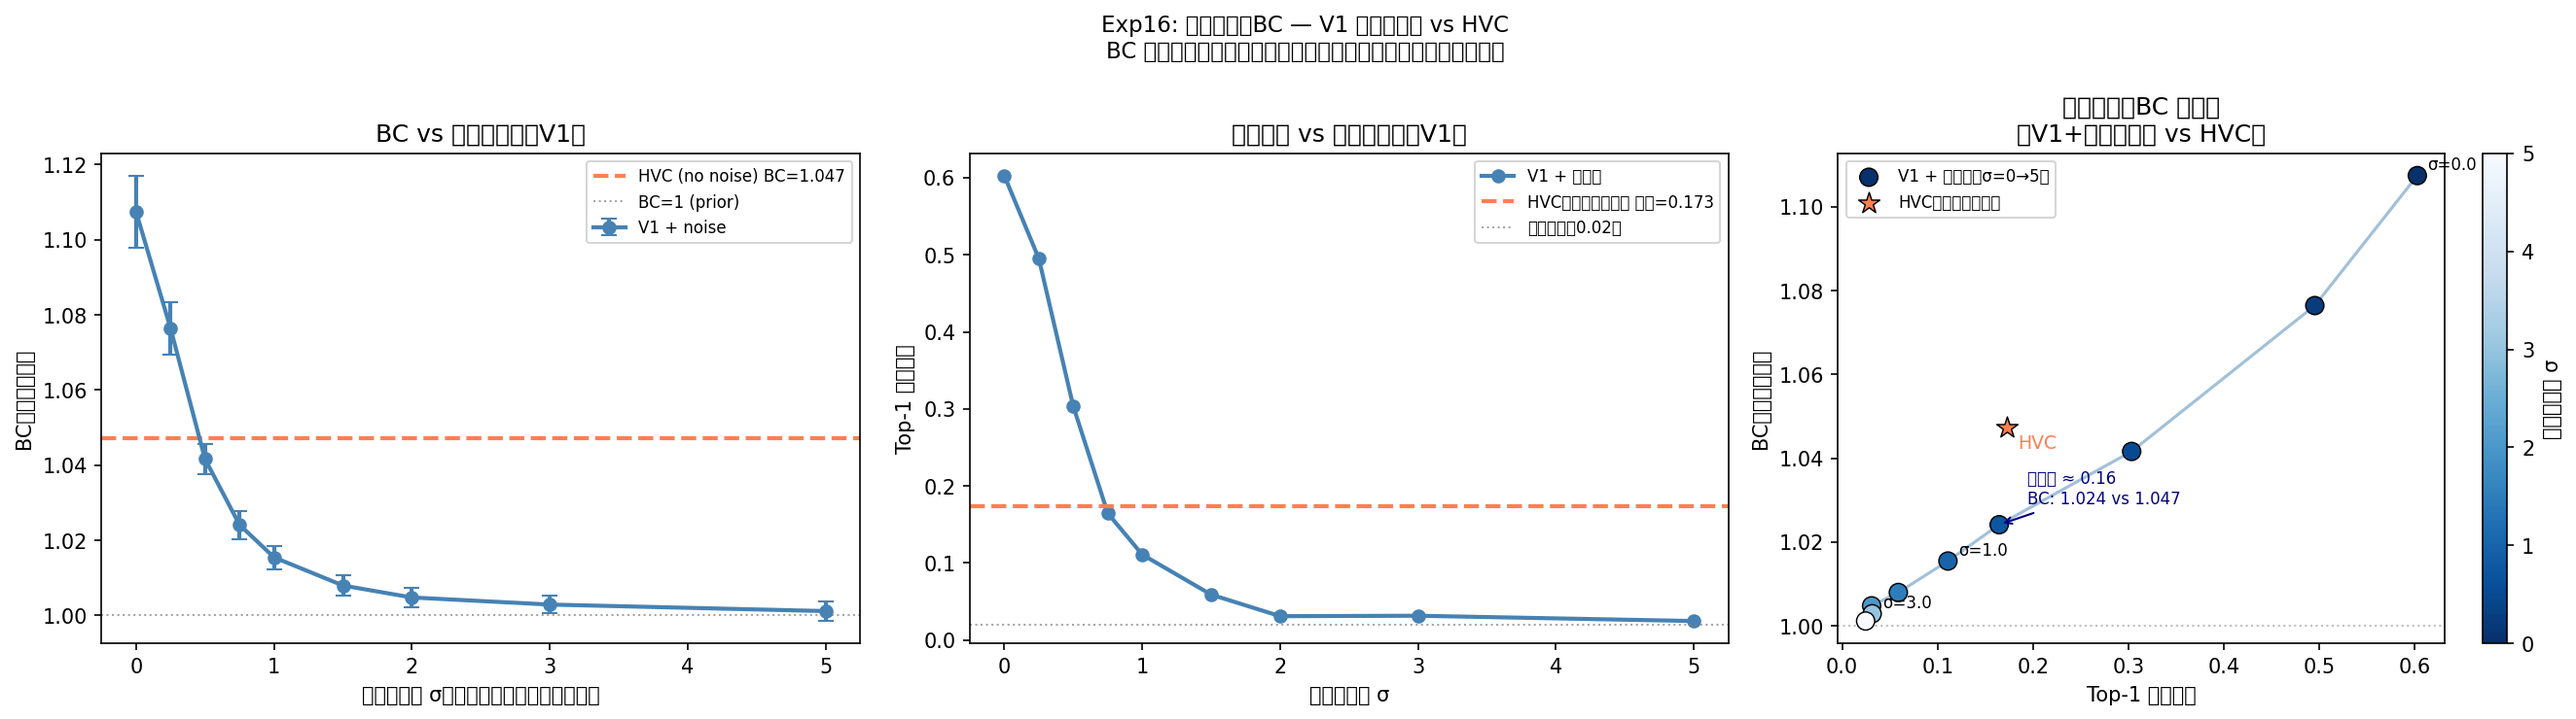
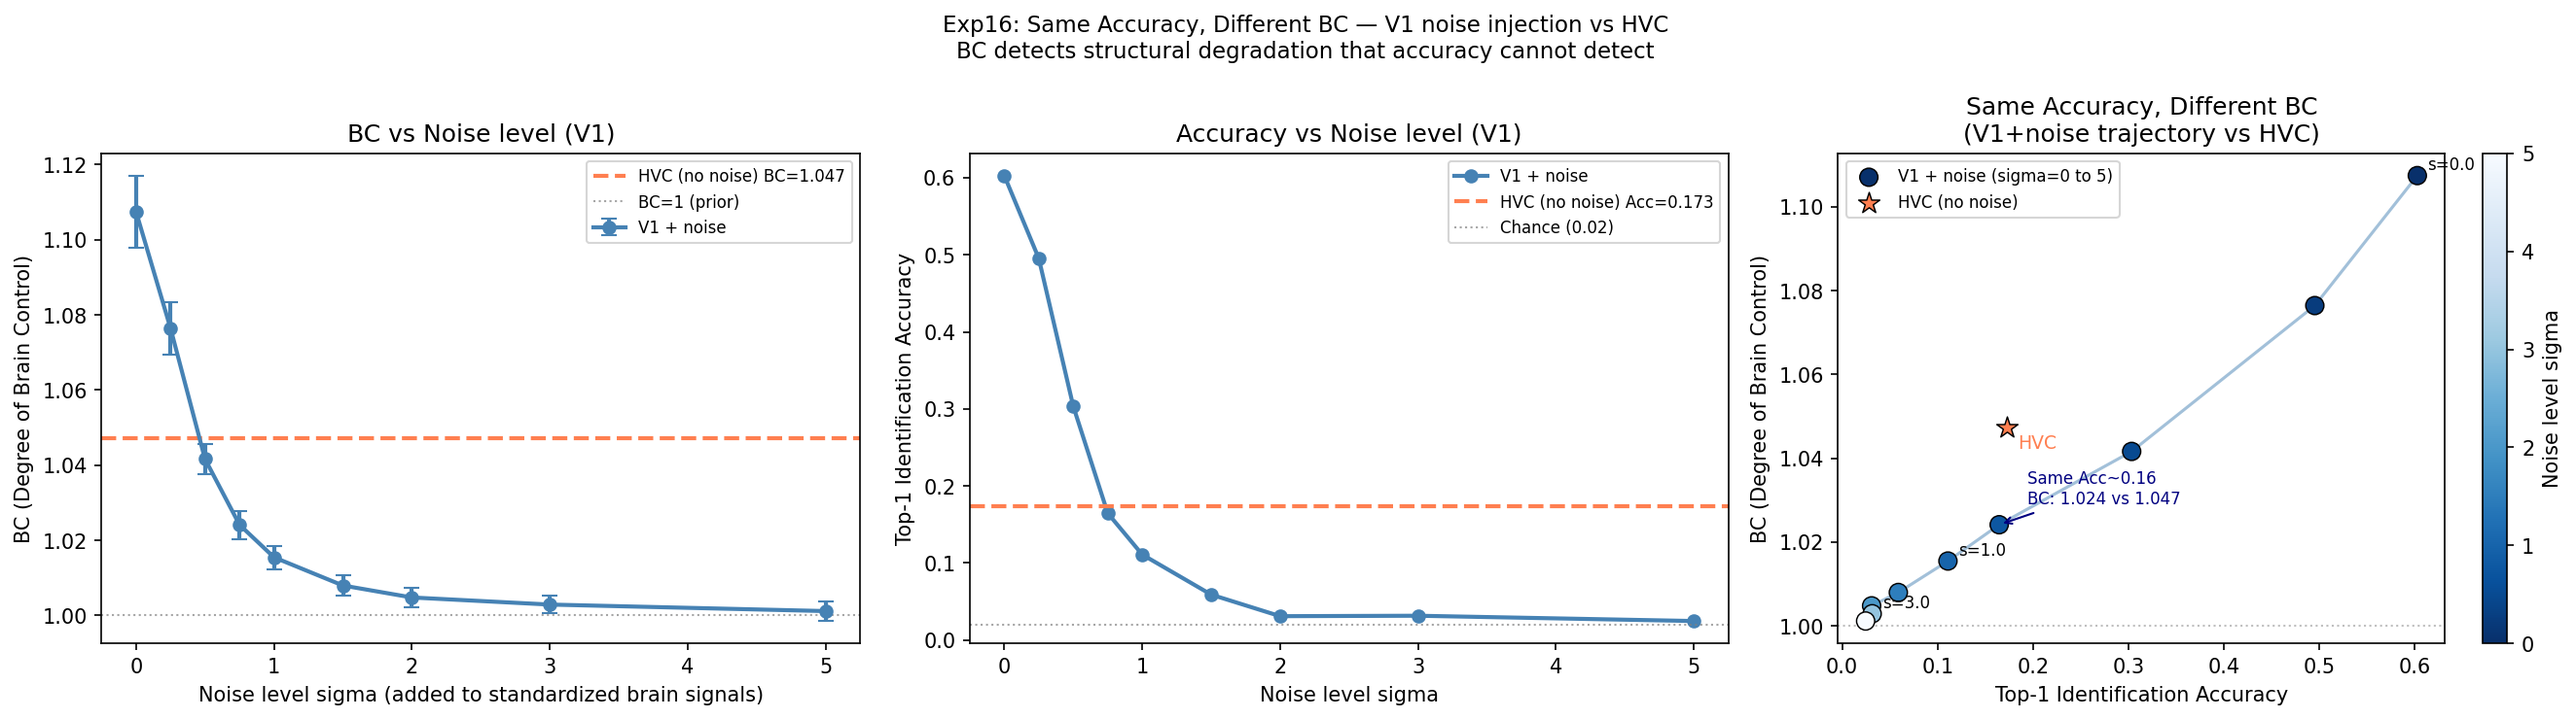
画像の文字化け修正

diff --git a/experiments/exp16b_noise_sensitivity_curve.py b/experiments/exp16b_noise_sensitivity_curve.py
@@ -61,7 +61,7 @@ def main():
     # (1) 正規化カーブ（メイン図）
     ax = axes[0]
     ax.plot(noise_levels, bc_norm, color="steelblue", marker="o",
-            linewidth=2.5, markersize=7, label="BC（脳制御度）")
+            linewidth=2.5, markersize=7, label="BC (Degree of Brain Control)")
     ax.fill_between(
         noise_levels,
         bc_norm - bc_stds / (bc_max - bc_min),
@@ -69,18 +69,16 @@ def main():
         alpha=0.2, color="steelblue"
     )
     ax.plot(noise_levels, acc_norm, color="tomato", marker="s",
-            linewidth=2.5, markersize=7, label="識別精度", linestyle="--")
+            linewidth=2.5, markersize=7, label="Identification Accuracy", linestyle="--")
 
-    # HVC の水平線（同精度ペアの可視化）
     ax.axhline(bc_hvc_norm, color="steelblue", linestyle=":", linewidth=1.5, alpha=0.6,
-               label=f"HVC BC（ノイズなし）")
+               label="HVC BC (no noise)")
     ax.axhline(acc_hvc_norm, color="tomato", linestyle=":", linewidth=1.5, alpha=0.6,
-               label=f"HVC 識別精度（ノイズなし）")
+               label="HVC Accuracy (no noise)")
 
-    # 「同精度・異BC」の点を強調（σ=0.75）
     idx_075 = list(noise_levels).index(0.75)
     ax.annotate(
-        f"同精度 (σ=0.75)\nBC差 d={cohens_d:.2f}, p={p_val:.3f}",
+        f"Same Acc (s=0.75)\nBC diff d={cohens_d:.2f}, p={p_val:.3f}",
         xy=(noise_levels[idx_075], bc_norm[idx_075]),
         xytext=(1.5, 0.35),
         fontsize=9, color="navy",
@@ -88,41 +86,38 @@ def main():
         bbox=dict(boxstyle="round,pad=0.3", facecolor="lightyellow", edgecolor="navy"),
     )
 
-    ax.set_xlabel("ノイズ強度 σ", fontsize=11)
-    ax.set_ylabel("正規化スコア（0=下限, 1=ノイズなし）", fontsize=11)
-    ax.set_title("BC は識別精度より敏感にノイズ劣化を検出する\n（V1 ノイズ注入実験）", fontsize=12)
+    ax.set_xlabel("Noise level sigma", fontsize=11)
+    ax.set_ylabel("Normalized score (0=floor, 1=no-noise baseline)", fontsize=11)
+    ax.set_title("BC is more sensitive to noise degradation than accuracy\n(V1 noise injection)", fontsize=12)
     ax.legend(fontsize=9, loc="upper right")
     ax.set_ylim(-0.05, 1.15)
     ax.grid(True, alpha=0.3)
 
     # (2) 降下率の比較（Δ per unit σ）
     ax = axes[1]
-    # 各ノイズステップでの降下量（ノイズなし→各σ）
-    bc_drop  = bc_norm[0]  - bc_norm   # ノイズなしからの低下量
+    bc_drop  = bc_norm[0]  - bc_norm
     acc_drop = acc_norm[0] - acc_norm
 
     ax.plot(noise_levels, bc_drop, color="steelblue", marker="o",
-            linewidth=2.5, markersize=7, label="BC の低下量")
+            linewidth=2.5, markersize=7, label="BC degradation")
     ax.plot(noise_levels, acc_drop, color="tomato", marker="s",
-            linewidth=2.5, markersize=7, label="識別精度の低下量", linestyle="--")
+            linewidth=2.5, markersize=7, label="Accuracy degradation", linestyle="--")
 
-    # 2つの曲線の差（BC が余分に落ちている量）
-    extra_drop = bc_drop - acc_drop
     ax.fill_between(noise_levels, acc_drop, bc_drop,
                     where=(bc_drop >= acc_drop),
                     alpha=0.15, color="steelblue",
-                    label="BC の超過低下（BC sensitivity advantage）")
+                    label="BC sensitivity advantage")
 
-    ax.set_xlabel("ノイズ強度 σ", fontsize=11)
-    ax.set_ylabel("ノイズなしからの低下量（正規化）", fontsize=11)
-    ax.set_title("BC の感度優位性\n（BC は精度より速く劣化を反映する）", fontsize=12)
+    ax.set_xlabel("Noise level sigma", fontsize=11)
+    ax.set_ylabel("Degradation from no-noise baseline (normalized)", fontsize=11)
+    ax.set_title("BC sensitivity advantage\n(BC degrades faster than accuracy)", fontsize=12)
     ax.legend(fontsize=9)
     ax.grid(True, alpha=0.3)
     ax.set_ylim(-0.05, 1.1)
 
     plt.suptitle(
-        "BC の感度優位性: 識別精度では捉えられない構造劣化を検出する\n"
-        f"V1 ノイズ注入実験（Subject1, relu7 特徴量）",
+        "BC detects structural degradation that accuracy cannot detect\n"
+        f"V1 noise injection experiment (Subject1, relu7 features)",
         fontsize=12, fontweight="bold"
     )
     plt.tight_layout()

diff --git a/experiments/exp16_same_acc_diff_bc.py b/experiments/exp16_same_acc_diff_bc.py
@@ -288,61 +288,57 @@ def main():
     ax.axhline(bc_hvc_m, color="coral", linestyle="--", linewidth=2,
                label=f"HVC (no noise) BC={bc_hvc_m:.3f}")
     ax.axhline(1.0, color="gray", linestyle=":", linewidth=1, alpha=0.7, label="BC=1 (prior)")
-    ax.set_xlabel("ノイズ強度 σ（標準化済み脳活動に加算）")
-    ax.set_ylabel("BC（脳制御度）")
-    ax.set_title("BC vs ノイズ強度（V1）")
+    ax.set_xlabel("Noise level sigma (added to standardized brain signals)")
+    ax.set_ylabel("BC (Degree of Brain Control)")
+    ax.set_title("BC vs Noise level (V1)")
     ax.legend(fontsize=8)
 
     # (2) ノイズ強度 vs 識別精度
     ax = axes[1]
     ax.plot(NOISE_LEVELS, acc_list, color="steelblue", marker="o", linewidth=2,
-            markersize=6, label="V1 + ノイズ")
+            markersize=6, label="V1 + noise")
     ax.axhline(acc_hvc, color="coral", linestyle="--", linewidth=2,
-               label=f"HVC（ノイズなし） 精度={acc_hvc:.3f}")
-    ax.axhline(1/50, color="gray", linestyle=":", linewidth=1, alpha=0.7, label="チャンス（0.02）")
-    ax.set_xlabel("ノイズ強度 σ")
-    ax.set_ylabel("Top-1 識別精度")
-    ax.set_title("識別精度 vs ノイズ強度（V1）")
+               label=f"HVC (no noise) Acc={acc_hvc:.3f}")
+    ax.axhline(1/50, color="gray", linestyle=":", linewidth=1, alpha=0.7, label="Chance (0.02)")
+    ax.set_xlabel("Noise level sigma")
+    ax.set_ylabel("Top-1 Identification Accuracy")
+    ax.set_title("Accuracy vs Noise level (V1)")
     ax.legend(fontsize=8)
 
     # (3) 精度 vs BC の散布図（全条件）
     ax = axes[2]
-    # V1 + noise の軌跡
     sc = ax.scatter(acc_list, bc_list, c=NOISE_LEVELS, cmap="Blues_r",
                     s=80, zorder=3, edgecolors="black", linewidth=0.7,
-                    label="V1 + ノイズ（σ=0→5）")
+                    label="V1 + noise (sigma=0 to 5)")
     for i, sigma in enumerate(NOISE_LEVELS):
         if sigma in [0.0, 1.0, 3.0]:
-            ax.annotate(f"σ={sigma:.1f}", (acc_list[i], bc_list[i]),
+            ax.annotate(f"s={sigma:.1f}", (acc_list[i], bc_list[i]),
                         xytext=(5, 3), textcoords="offset points", fontsize=8)
-    # V1→noise の軌跡線
     ax.plot(acc_list, bc_list, color="steelblue", linewidth=1.5,
             alpha=0.5, linestyle="-")
-    # HVC ベースライン
     ax.scatter([acc_hvc], [bc_hvc_m], color="coral", s=120, zorder=4,
-               marker="*", edgecolors="black", linewidth=0.7, label="HVC（ノイズなし）")
+               marker="*", edgecolors="black", linewidth=0.7, label="HVC (no noise)")
     ax.annotate("HVC", (acc_hvc, bc_hvc_m),
                 xytext=(5, -10), textcoords="offset points", fontsize=9, color="coral")
 
-    # 「同精度・異BC」の対応する点を強調
     ax.annotate(
-        f"同精度 ≈ {acc_list[best_idx]:.2f}\nBC: {bc_list[best_idx]:.3f} vs {bc_hvc_m:.3f}",
+        f"Same Acc~{acc_list[best_idx]:.2f}\nBC: {bc_list[best_idx]:.3f} vs {bc_hvc_m:.3f}",
         xy=(acc_list[best_idx], bc_list[best_idx]),
         xytext=(acc_list[best_idx] + 0.03, bc_list[best_idx] + 0.005),
         fontsize=8, color="navy",
         arrowprops=dict(arrowstyle="->", color="navy"),
     )
 
-    plt.colorbar(sc, ax=ax, label="ノイズ強度 σ")
+    plt.colorbar(sc, ax=ax, label="Noise level sigma")
     ax.axhline(1.0, color="gray", linestyle=":", linewidth=1, alpha=0.5)
-    ax.set_xlabel("Top-1 識別精度")
-    ax.set_ylabel("BC（脳制御度）")
-    ax.set_title("同精度・異BC の実証\n（V1+ノイズ軌跡 vs HVC）")
+    ax.set_xlabel("Top-1 Identification Accuracy")
+    ax.set_ylabel("BC (Degree of Brain Control)")
+    ax.set_title("Same Accuracy, Different BC\n(V1+noise trajectory vs HVC)")
     ax.legend(fontsize=8)
 
     plt.suptitle(
-        "Exp16: 同精度・異BC — V1 ノイズ注入 vs HVC\n"
-        "BC は識別精度では捉えられないシグナル構造の劣化を検出する",
+        "Exp16: Same Accuracy, Different BC — V1 noise injection vs HVC\n"
+        "BC detects structural degradation that accuracy cannot detect",
         fontsize=11
     )
     plt.tight_layout()
